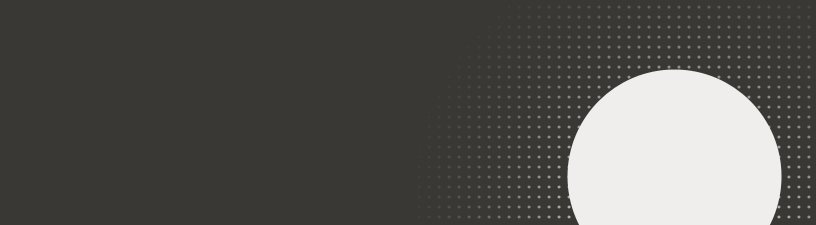
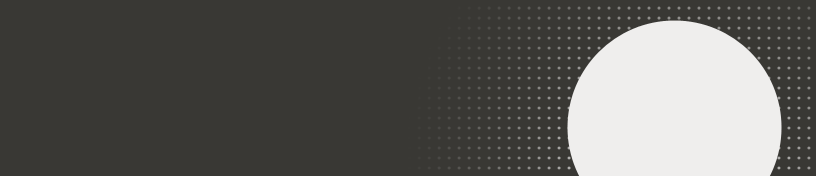
Reduce the slideshow by 49px from the top of the window, so that it fits better on netbook (1024x600) screens.

diff --git a/slideshows/ubuntu/slides/link/general.css b/slideshows/ubuntu/slides/link/general.css
@@ -21,7 +21,7 @@ a {
 	position:absolute;
 	
 	width:798px;
-	height:500px;
+	height:451px;
 	
 	overflow:hidden;
 	
@@ -54,7 +54,7 @@ a {
 .header {
 	position:fixed; /* FIXME: This is a terrible hack to keep the header from moving during a transition */
 	top:0px;
-	height:225px;
+	height:176px;
 }
 
 /* title block is positioned at the bottom of its parent, which should be .header */
@@ -90,14 +90,14 @@ right of a slide and is given a size of 64x64 pixels.
 	width:auto;
 	height:auto;
 	
-	top:100px;
+	top:51px;
 	left:587px;
 	
 	z-index:11;
 	border:0px;
 }
 .icon.exact {
-	top:69px;
+	top:20px;
 	left:549px;
 	width:215px;
 	height:auto;
@@ -111,7 +111,7 @@ appear, spaced appropriately from .title.
 .main {
 	position:absolute;
 	
-	top:212px;
+	top:163px;
 	left:0px;
 	
 	width:100%;
